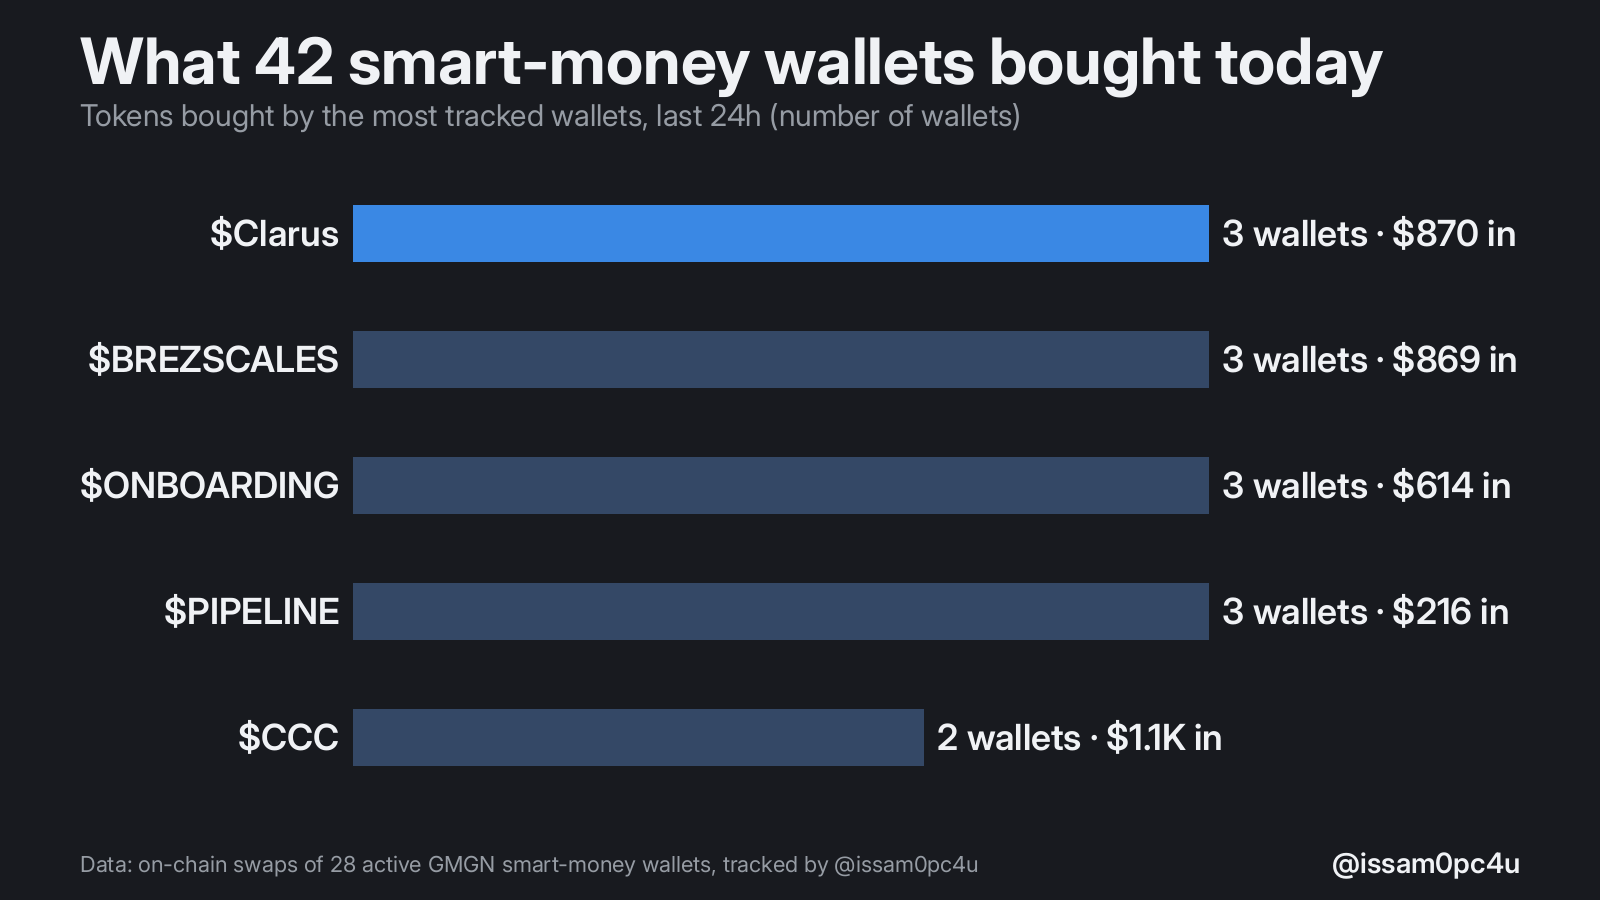
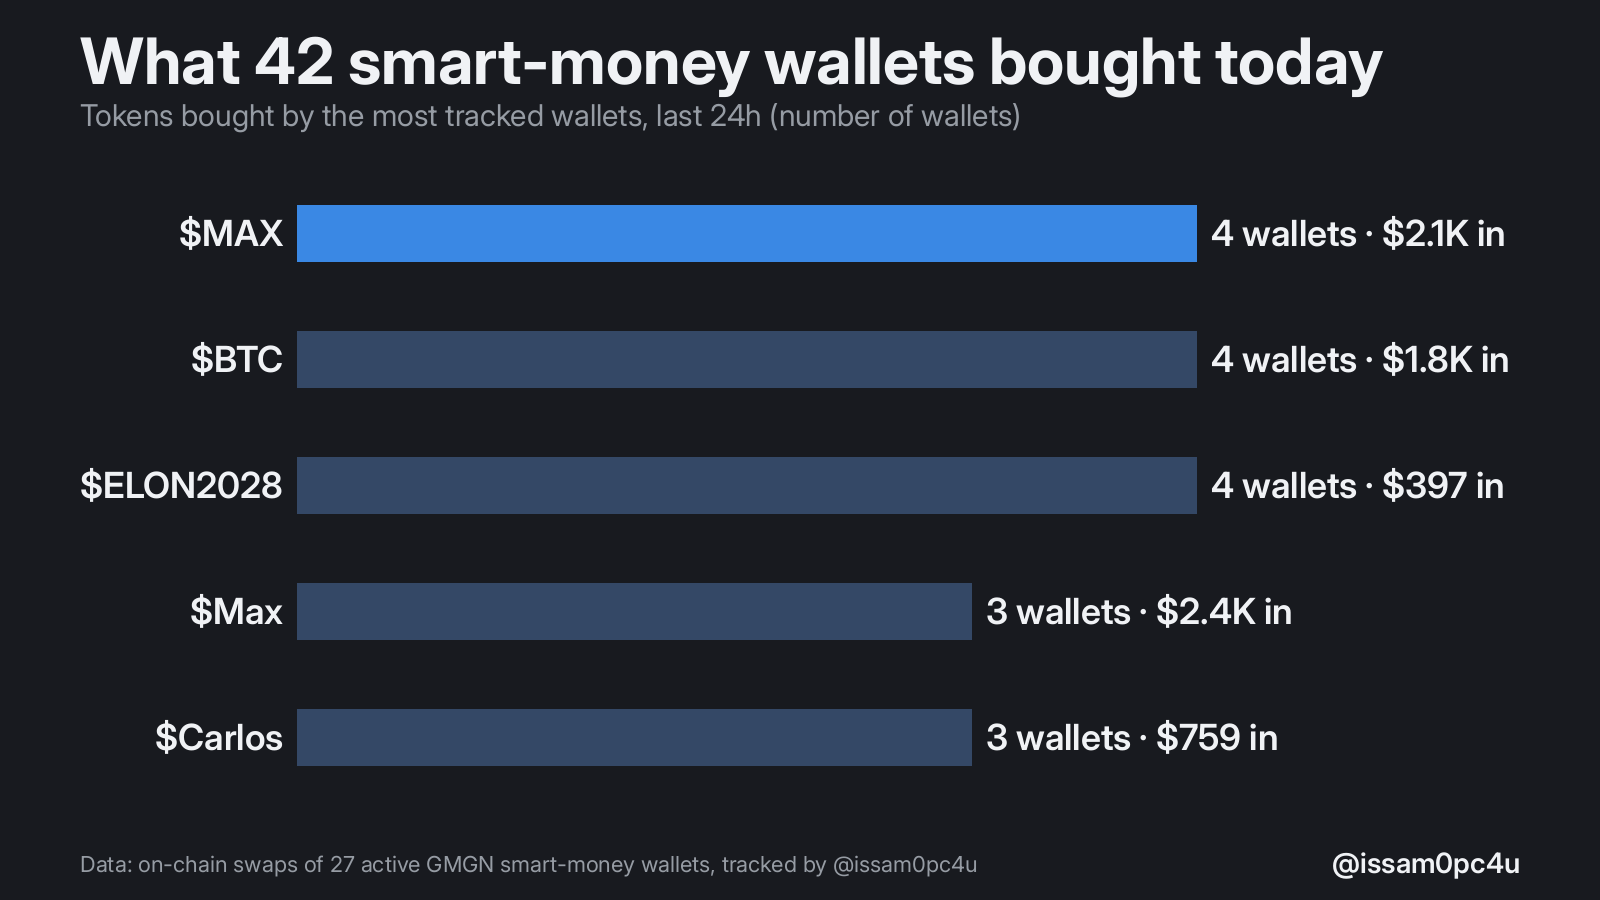
smartmoney report: 2026-11-10 17:16

diff --git a/queue/2026-11-10-1826-smartmoney-report.md b/queue/2026-11-10-1826-smartmoney-report.md
@@ -1,0 +1,35 @@
+---
+post_at: 2026-11-10 18:26
+status: ready
+pillar: data
+image: charts/2026-11-10-smartmoney.png
+queued_at: 2026-11-10 17:16
+sources:
+  - https://github.com/issambkkal/x-meme-desk/tree/main/smartmoney
+  - https://gmgn.ai/trade?chain=sol&tab=smart_degen
+---
+I track 42 of the most profitable meme coin wallets on Solana. Here's what they did in the last 24h 🧵
+
+1285 buys, 1236 sells, 36 different tokens.
+
+Smart money in: $16.6K. Out: $19.7K.
+===
+Most bought: $MAX
+
+4 tracked wallets bought it, $2.1K in total. Market cap $24.5K, -83% in 24h.
+
+4 of them have already sold some. Watch that number.
+===
+Most dumped: $Max
+
+$7.8K sold by 6 tracked wallets. -38% in 24h.
+
+When the smart money leaves, the late buyers become the exit.
+===
+The lesson from 24h of their trades: they buy small, take profit fast, and dump losers within hours.
+
+Most of their 'wins' are trades, not holds.
+
+Research, not advice.
+===
+I post every smart-money signal and every trap the moment the bot sees it, free, in my Telegram group imbi MOON. Link is in my pinned post.
